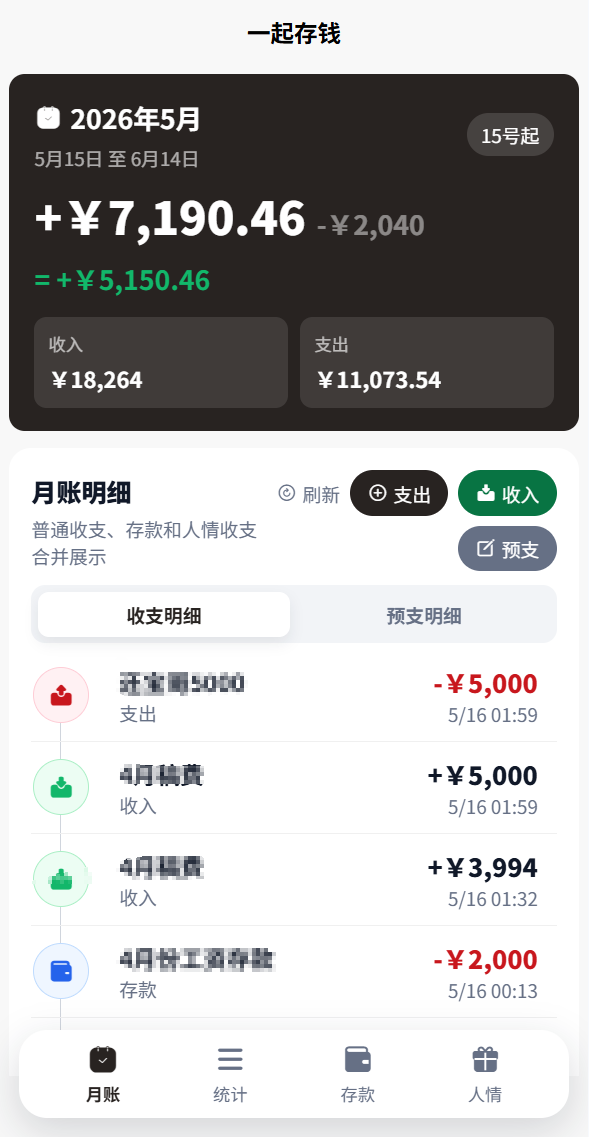
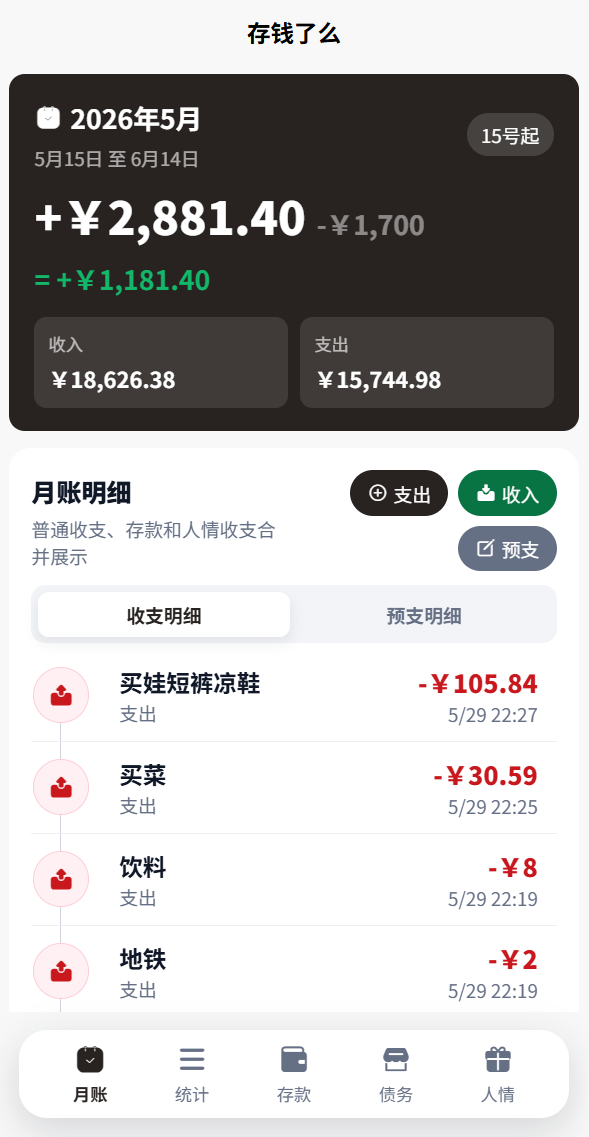
新增债务功能，记录债务情况和还款记录

diff --git a/README.md b/README.md
@@ -43,8 +43,10 @@
 | 月账 | 统计 |
 | --- | --- |
 | ![月账](./static/1.png) | ![统计](./static/2.png) |
-| 存款 | 人情收支 |
-| ![存款](./static/3.png) | ![人情收支](./static/4.png) |
+| 存款 | 债务 |
+| ![存款](./static/3.png) | ![债务](./static/debt.png) |
+| 人情收支 |  |
+| ![人情收支](./static/4.png) |  |
 
 ## 功能介绍
 
@@ -53,7 +55,7 @@
 - 支持设置工资日，比如 5 号、15 号，按发薪日作为账期开始。
 - 首页展示当前工资周期的收入、支出、剩余经费。
 - 支持选择月份，查看任意工资周期的收支情况。
-- 普通收入、普通支出、存款、人情收支会合并展示在月账明细里。
+- 普通收入、普通支出、还债支出、存款和人情收支会合并展示在月账明细里。
 
 ### 预支记录
 
@@ -66,6 +68,12 @@
 - 支持新增、编辑、删除存款记录。
 - 存款会作为当月支出扣掉，因为这笔钱虽然还在你名下，但已经被押送进小金库了。
 - 单独展示累计存款，每多一笔，离“老板我先撤了”理论上近一点点。
+
+### 债务
+
+- 支持新增、编辑债务项目，比如白条、分付、信用卡分期。
+- 新增支出时可以标记为还债支出，并选择要还的债务。
+- 还债支出会正常计入当月支出，同时自动扣减对应债务的剩余负债。
 
 ### 人情收支
 
@@ -99,7 +107,7 @@
 
 ```text
 manageMoney
-├─ pages/money/index.vue                         # 账本首页：月账、统计、存款、人情
+├─ pages/money/index.vue                         # 账本首页：月账、统计、存款、债务、人情
 ├─ pages/money/friend.vue                        # 朋友人情明细页
 ├─ uniCloud-aliyun/cloudfunctions/money-api/     # 账本业务云函数
 ├─ uniCloud-aliyun/database/                     # 账本数据库 Schema
@@ -108,6 +116,7 @@ manageMoney
 ├─ static/app-icons/                             # Android/iOS 云打包图标
 ├─ static/app-pack-1.png                         # App 云打包示例截图
 ├─ static/app-pack-2.png                         # App 打包成功示例截图
+├─ static/debt.png                               # 债务页截图
 ├─ manifest.json                                 # App/H5 配置
 └─ pages.json                                    # 页面路由配置
 ```
